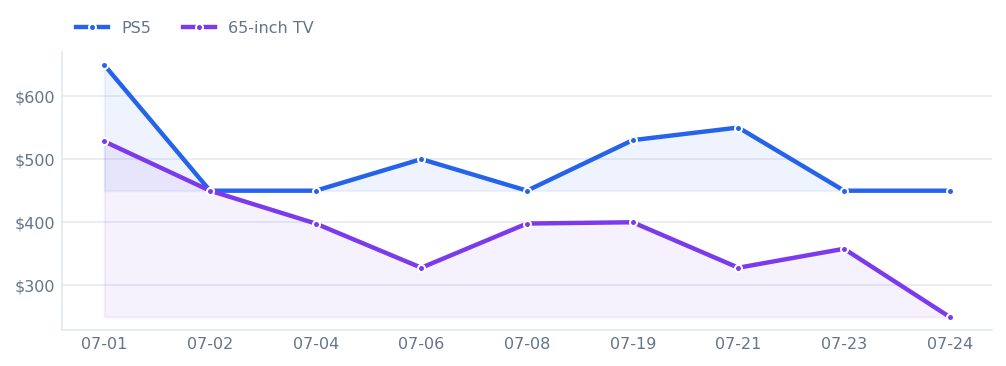
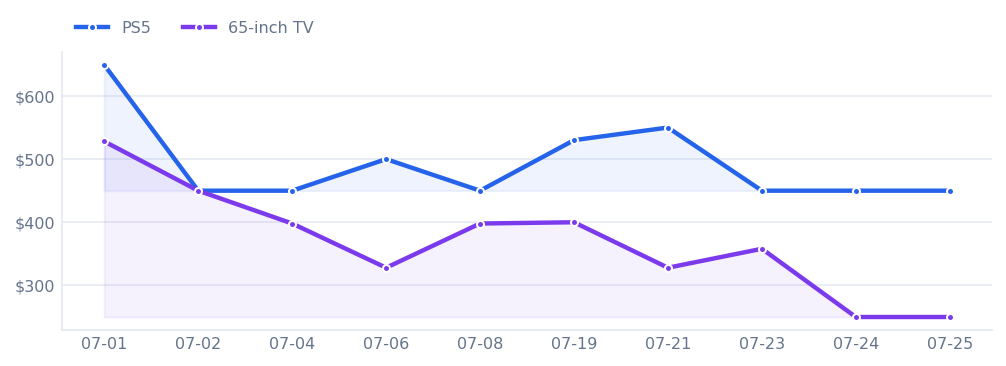
Refresh PS5 and TV deal evidence

diff --git a/index.html b/index.html
@@ -135,14 +135,14 @@
       <div class="metrics">
         <div class="metric"><span class="eyebrow">Data state</span><strong id="hero-data-state">Fresh</strong><small>Derived from source refresh evidence</small></div>
         <div class="metric"><span class="eyebrow">Tracked Rows</span><strong>9</strong><small data-row-metric data-fresh-text="Current retailer evidence rows" data-historical-text="Stored retailer evidence rows" data-unknown-text="Unverified stored rows">Current retailer evidence rows</small></div>
-        <div class="metric"><span class="eyebrow">Warnings</span><strong>2</strong><small>manufacturer-direct reference, member-only price</small></div>
+        <div class="metric"><span class="eyebrow">Warnings</span><strong>3</strong><small>manufacturer-direct reference, member-only price, out of stock</small></div>
       </div>
       <section
         class="panel refresh-block"
         aria-labelledby="refresh-heading"
         data-refresh-root
-        data-success-at="2026-07-24T11:02:57Z"
-        data-attempt-at="2026-07-24T11:03:52.504772Z"
+        data-success-at="2026-07-25T11:03:47Z"
+        data-attempt-at="2026-07-25T11:04:42.940547Z"
         data-cadence-minutes="2880"
         data-grace-minutes="180"
         data-attempt-status="success"
@@ -159,15 +159,15 @@
           <strong id="refresh-status" class="state-badge fresh" aria-live="polite">Fresh</strong>
         </div>
         <dl class="refresh-facts">
-          <div><dt>Last successful data refresh</dt><dd>Jul 24, 2026 6:02 AM CDT</dd></div>
+          <div><dt>Last successful data refresh</dt><dd>Jul 25, 2026 6:03 AM CDT</dd></div>
           <div><dt>Age</dt><dd id="refresh-age">0 minutes</dd></div>
           <div><dt>Cadence</dt><dd>Every 48 hours + 3-hour grace</dd></div>
-          <div><dt>Next due</dt><dd>Jul 26, 2026 6:02 AM CDT</dd></div>
-          <div><dt>Latest attempt</dt><dd>Jul 24, 2026 6:03 AM CDT (success)</dd></div>
+          <div><dt>Next due</dt><dd>Jul 27, 2026 6:03 AM CDT</dd></div>
+          <div><dt>Latest attempt</dt><dd>Jul 25, 2026 6:04 AM CDT (success)</dd></div>
           <div><dt>Evidence represented</dt><dd>9 rows from 9 sources</dd></div>
         </dl>
         <p class="refresh-reason"><strong>State reason:</strong> <span id="refresh-reason">Data is within the 48-hour refresh cadence.</span></p>
-        <p class="secondary-time"><strong>Render / publish:</strong> rendered Jul 24, 2026 6:03 AM CDT; published Not recorded. These do not change the underlying data age.</p>
+        <p class="secondary-time"><strong>Render / publish:</strong> rendered Jul 25, 2026 6:04 AM CDT; published Not recorded. These do not change the underlying data age.</p>
       </section>
       <section class="panel view-switch" aria-label="Dashboard view">
         <div>
@@ -189,7 +189,7 @@
         <p id="historical-warning" class="historical-warning" data-historical-text="Stored prices and products are from the last successful refresh. They are not current recommendations." data-unknown-text="Unverified stored rows - no trustworthy refresh time. Prices and products are not current recommendations." hidden>Stored prices and products are from the last successful refresh. They are not current recommendations.</p>
         <div class="row-controls" data-row-controls aria-label="Comparison controls">
           <label class="control"><span>Target</span><select data-filter-target><option value="">All targets</option><option value="ps5">PS5</option><option value="tv">65-inch TV</option></select></label>
-          <label class="control"><span>Retailer</span><select data-filter-retailer><option value="">All retailers</option><option value="Best Buy">Best Buy</option><option value="Costco">Costco</option><option value="Home Depot">Home Depot</option><option value="PlayStation Direct">PlayStation Direct</option><option value="Target">Target</option><option value="Walmart">Walmart</option></select></label>
+          <label class="control"><span>Retailer</span><select data-filter-retailer><option value="">All retailers</option><option value="Best Buy">Best Buy</option><option value="Costco">Costco</option><option value="GameStop">GameStop</option><option value="PlayStation Direct">PlayStation Direct</option><option value="Target">Target</option><option value="Walmart">Walmart</option></select></label>
           <label class="control"><span>Status</span><select data-filter-status><option value="">All statuses</option><option value="ready">Ready</option><option value="caution">Caution</option><option value="blocked">Blocked</option></select></label>
           <label class="control"><span>Price order</span><select data-sort-direction><option value="asc">Low to high</option><option value="desc">High to low</option></select></label>
         </div>
@@ -213,8 +213,8 @@
                   <dl class="row-evidence">
                     <div><dt>Evidence</dt><dd>big-box public price. Current-run Target product page displayed the PS5 Disc Console 1TB - Fortnite Flowering Chaos Bundle at $449.99 (MSRP $549.99), In Stock, with Add to cart.</dd></div>
                     <div><dt>Condition</dt><dd>new</dd></div>
-                    <div><dt>Pickup / delivery</dt><dd>Online purchase path is visible; confirm selected Houston store, delivery timing, tax, and final cart total before buying.</dd></div>
-                    <div><dt>Acquired</dt><dd>Jul 24, 2026 6:02 AM CDT</dd></div>
+                    <div><dt>Pickup / delivery</dt><dd>Target showed a live online purchase path; confirm selected Houston pickup, delivery timing, tax, and final cart total before buying.</dd></div>
+                    <div><dt>Acquired</dt><dd>Jul 25, 2026 6:03 AM CDT</dd></div>
                     <div><dt>Source</dt><dd><a href="https://www.target.com/p/-/A-94967680">target.com</a></dd></div>
                   </dl>
                 </details>
@@ -224,9 +224,9 @@
           <tr data-deal-row="ps5-walmart-playstation-5-digital-console-slim-825gb" data-target="ps5" data-retailer="Walmart" data-status="ready" data-price="599.0">
             <td data-label="Target">PS5</td>
             <td data-label="Retailer">Walmart</td>
-            <td data-label="Product"><a href="https://www.walmart.com/browse/video-games/playstation-5-ps5-consoles/2636_6111926_2762884">PlayStation 5 Digital Console Slim - 825GB</a></td>
+            <td data-label="Product"><a href="https://www.walmart.com/ip/PlayStation-5-Digital-Console-Slim/17852302051">PlayStation 5 Digital Console Slim - 825GB</a></td>
             <td data-label="Price">$599</td>
-            <td data-label="Stock">Low stock; Add control displayed</td>
+            <td data-label="Stock">New; low stock; Add to cart shown</td>
             <td data-label="Warning / action">
               <div class="row-action-content">
                 <span class="row-status ready">Ready</span>
@@ -234,11 +234,11 @@
                 <details class="row-details">
                   <summary>Evidence: Walmart · PlayStation 5 Digital Console Slim - 825GB</summary>
                   <dl class="row-evidence">
-                    <div><dt>Evidence</dt><dd>big-box public price. Current-run Walmart console results listed the PlayStation 5 Digital Console Slim - 825GB at $599.00, low stock, with delivery and pickup availability.</dd></div>
+                    <div><dt>Evidence</dt><dd>big-box public price. Current-run Walmart product page displayed the PlayStation 5 Digital Console Slim - 825GB at $599.00, new, low stock, with Add to cart; it was sold and shipped by Walmart.com.</dd></div>
                     <div><dt>Condition</dt><dd>new</dd></div>
-                    <div><dt>Pickup / delivery</dt><dd>Walmart showed free shipping arriving tomorrow and free pickup as soon as tomorrow; confirm the Houston store before buying.</dd></div>
-                    <div><dt>Acquired</dt><dd>Jul 24, 2026 6:02 AM CDT</dd></div>
-                    <div><dt>Source</dt><dd><a href="https://www.walmart.com/browse/video-games/playstation-5-ps5-consoles/2636_6111926_2762884">walmart.com</a></dd></div>
+                    <div><dt>Pickup / delivery</dt><dd>Walmart.com showed free shipping, pickup, and delivery controls; confirm the Houston store and timing before buying.</dd></div>
+                    <div><dt>Acquired</dt><dd>Jul 25, 2026 6:03 AM CDT</dd></div>
+                    <div><dt>Source</dt><dd><a href="https://www.walmart.com/ip/PlayStation-5-Digital-Console-Slim/17852302051">walmart.com</a></dd></div>
                   </dl>
                 </details>
               </div>
@@ -247,7 +247,7 @@
           <tr data-deal-row="ps5-best-buy-1000049888" data-target="ps5" data-retailer="Best Buy" data-status="ready" data-price="649.99">
             <td data-label="Target">PS5</td>
             <td data-label="Retailer">Best Buy</td>
-            <td data-label="Product"><a href="https://www.bestbuy.com/product/playstation-5-slim-console-1tb-playstation-5/JXHQ37TYLC">PlayStation 5 Slim Console - 1TB</a></td>
+            <td data-label="Product"><a href="https://www.bestbuy.com/product/playstation-5-slim-console-1tb/JXHQ37TYLC">PlayStation 5 Slim Console - 1TB</a></td>
             <td data-label="Price">$649.99</td>
             <td data-label="Stock">Add to cart; pickup and shipping shown</td>
             <td data-label="Warning / action">
@@ -257,11 +257,11 @@
                 <details class="row-details">
                   <summary>Evidence: Best Buy · PlayStation 5 Slim Console - 1TB</summary>
                   <dl class="row-evidence">
-                    <div><dt>Evidence</dt><dd>big-box public price. Current-run Best Buy product page displayed the PlayStation 5 Slim Console - 1TB, model 1000049888, at $649.99 with Add to cart, pickup, and shipping shown.</dd></div>
+                    <div><dt>Evidence</dt><dd>big-box public price. Current-run Best Buy product page displayed the PlayStation 5 Slim Console - 1TB, model 1000049888, at $649.99 with Add to cart and pickup/shipping availability.</dd></div>
                     <div><dt>Condition</dt><dd>new</dd></div>
-                    <div><dt>Pickup / delivery</dt><dd>Best Buy showed pickup readiness and shipping; confirm the selected Houston store and delivery timing before buying.</dd></div>
-                    <div><dt>Acquired</dt><dd>Jul 24, 2026 6:02 AM CDT</dd></div>
-                    <div><dt>Source</dt><dd><a href="https://www.bestbuy.com/product/playstation-5-slim-console-1tb-playstation-5/JXHQ37TYLC">bestbuy.com</a></dd></div>
+                    <div><dt>Pickup / delivery</dt><dd>Best Buy showed pickup and shipping controls; confirm the selected Houston store and delivery timing before buying.</dd></div>
+                    <div><dt>Acquired</dt><dd>Jul 25, 2026 6:03 AM CDT</dd></div>
+                    <div><dt>Source</dt><dd><a href="https://www.bestbuy.com/product/playstation-5-slim-console-1tb/JXHQ37TYLC">bestbuy.com</a></dd></div>
                   </dl>
                 </details>
               </div>
@@ -283,19 +283,42 @@
                     <div><dt>Evidence</dt><dd>manufacturer reference. Current-run PlayStation Direct catalog displayed the PlayStation 5 Console - 1 TB at $649.00 and the Digital Edition at $599.00.</dd></div>
                     <div><dt>Condition</dt><dd>new</dd></div>
                     <div><dt>Pickup / delivery</dt><dd>Manufacturer-direct online purchase path; no Houston pickup path was shown.</dd></div>
-                    <div><dt>Acquired</dt><dd>Jul 24, 2026 6:02 AM CDT</dd></div>
+                    <div><dt>Acquired</dt><dd>Jul 25, 2026 6:03 AM CDT</dd></div>
                     <div><dt>Source</dt><dd><a href="https://direct.playstation.com/en-us/hardware/ps5">direct.playstation.com</a></dd></div>
                   </dl>
                 </details>
               </div>
             </td>
           </tr>
-          <tr data-deal-row="tv-costco-qd6-series" data-target="tv" data-retailer="Costco" data-status="caution" data-price="249.97">
+          <tr data-deal-row="ps5-gamestop-playstation-5-console" data-target="ps5" data-retailer="GameStop" data-status="blocked" data-price="749.99">
+            <td data-label="Target">PS5</td>
+            <td data-label="Retailer">GameStop</td>
+            <td data-label="Product"><a href="https://www.gamestop.com/consoles-hardware/playstation-5/consoles/products/sony-playstation-5-console/11108140.html">Sony PlayStation 5 Console</a></td>
+            <td data-label="Price">$749.99</td>
+            <td data-label="Stock">Currently unavailable for the selected edition</td>
+            <td data-label="Warning / action">
+              <div class="row-action-content">
+                <span class="row-status blocked">Blocked</span>
+                <div class="chips"><span class="chip warn">out of stock</span></div>
+                <details class="row-details">
+                  <summary>Evidence: GameStop · Sony PlayStation 5 Console</summary>
+                  <dl class="row-evidence">
+                    <div><dt>Evidence</dt><dd>out of stock. Current-run GameStop product page listed the new Sony PlayStation 5 Console at $749.99, but the selected edition was marked Currently Unavailable.</dd></div>
+                    <div><dt>Condition</dt><dd>new</dd></div>
+                    <div><dt>Pickup / delivery</dt><dd>GameStop displayed store pickup, same-day delivery, and ship-to-home options but marked the selected edition currently unavailable; confirm a Houston store before buying.</dd></div>
+                    <div><dt>Acquired</dt><dd>Jul 25, 2026 6:03 AM CDT</dd></div>
+                    <div><dt>Source</dt><dd><a href="https://www.gamestop.com/consoles-hardware/playstation-5/consoles/products/sony-playstation-5-console/11108140.html">gamestop.com</a></dd></div>
+                  </dl>
+                </details>
+              </div>
+            </td>
+          </tr>
+          <tr data-deal-row="tv-costco-65qd65nf" data-target="tv" data-retailer="Costco" data-status="caution" data-price="249.97">
             <td data-label="Target">TV</td>
             <td data-label="Retailer">Costco</td>
             <td data-label="Product"><a href="https://www.costco.com/CompareProductsDisplay?partNumbers=9465065">Hisense 65-inch Class QD6 Series 4K UHD QLED LCD TV</a></td>
             <td data-label="Price">$249.97</td>
-            <td data-label="Stock">Online Only; purchase controls shown</td>
+            <td data-label="Stock">Online Only; Costco Direct listing displayed</td>
             <td data-label="Warning / action">
               <div class="row-action-content">
                 <span class="row-status caution">Caution</span>
@@ -303,10 +326,10 @@
                 <details class="row-details">
                   <summary>Evidence: Costco · Hisense 65-inch Class QD6 Series 4K UHD QLED LCD TV</summary>
                   <dl class="row-evidence">
-                    <div><dt>Evidence</dt><dd>member only. Current-run Costco comparison page displayed the online-only Hisense 65-inch QD6 Series 4K UHD QLED LCD TV at $249.97, including a 3-year warranty.</dd></div>
+                    <div><dt>Evidence</dt><dd>member only. Current-run Costco comparison page displayed the online-only Hisense 65-inch QD6 Series 4K UHD QLED LCD TV, model 65QD65NF, at $249.97 with a 3-year warranty.</dd></div>
                     <div><dt>Condition</dt><dd>new</dd></div>
                     <div><dt>Pickup / delivery</dt><dd>Costco Direct online price; membership and Houston-area delivery details must be confirmed before buying.</dd></div>
-                    <div><dt>Acquired</dt><dd>Jul 24, 2026 6:02 AM CDT</dd></div>
+                    <div><dt>Acquired</dt><dd>Jul 25, 2026 6:03 AM CDT</dd></div>
                     <div><dt>Source</dt><dd><a href="https://www.costco.com/CompareProductsDisplay?partNumbers=9465065">costco.com</a></dd></div>
                   </dl>
                 </details>
@@ -316,9 +339,9 @@
           <tr data-deal-row="tv-walmart-65q51k" data-target="tv" data-retailer="Walmart" data-status="ready" data-price="358.0">
             <td data-label="Target">TV</td>
             <td data-label="Retailer">Walmart</td>
-            <td data-label="Product"><a href="https://www.walmart.com/ip/14513322750">TCL 65-inch Q Series QLED 4K UHD HDR Smart Google TV</a></td>
+            <td data-label="Product"><a href="https://www.walmart.com/ip/TCL-Google-TV-65Q51K/14513322750">TCL 65-inch Q Series QLED 4K UHD HDR Smart Google TV</a></td>
             <td data-label="Price">$358</td>
-            <td data-label="Stock">Add to cart shown</td>
+            <td data-label="Stock">Add to cart; low stock</td>
             <td data-label="Warning / action">
               <div class="row-action-content">
                 <span class="row-status ready">Ready</span>
@@ -326,11 +349,11 @@
                 <details class="row-details">
                   <summary>Evidence: Walmart · TCL 65-inch Q Series QLED 4K UHD HDR Smart Google TV</summary>
                   <dl class="row-evidence">
-                    <div><dt>Evidence</dt><dd>big-box public price. Current-run Walmart product page displayed the TCL 65-inch Q Series QLED 4K UHD HDR Smart Google TV, model 65Q51K, at $358.00 with Add to cart and free shipping.</dd></div>
+                    <div><dt>Evidence</dt><dd>big-box public price. Current-run Walmart product page displayed the TCL 65-inch Q Series QLED 4K UHD HDR Smart Google TV, model 65Q51K, at $358.00 with Add to cart and free shipping; the item was sold and shipped by Walmart.com.</dd></div>
                     <div><dt>Condition</dt><dd>new</dd></div>
-                    <div><dt>Pickup / delivery</dt><dd>Free shipping arriving tomorrow and nearby pickup check were shown; confirm selected Houston store and timing before buying.</dd></div>
-                    <div><dt>Acquired</dt><dd>Jul 24, 2026 6:02 AM CDT</dd></div>
-                    <div><dt>Source</dt><dd><a href="https://www.walmart.com/ip/14513322750">walmart.com</a></dd></div>
+                    <div><dt>Pickup / delivery</dt><dd>Walmart.com showed free shipping and nearby pickup controls; confirm the Houston store and timing before buying.</dd></div>
+                    <div><dt>Acquired</dt><dd>Jul 25, 2026 6:03 AM CDT</dd></div>
+                    <div><dt>Source</dt><dd><a href="https://www.walmart.com/ip/TCL-Google-TV-65Q51K/14513322750">walmart.com</a></dd></div>
                   </dl>
                 </details>
               </div>
@@ -339,7 +362,7 @@
           <tr data-deal-row="tv-best-buy-65q651g" data-target="tv" data-retailer="Best Buy" data-status="ready" data-price="399.99">
             <td data-label="Target">TV</td>
             <td data-label="Retailer">Best Buy</td>
-            <td data-label="Product"><a href="https://www.bestbuy.com/product/tcl-65-class-q6-series-4k-uhd-hdr-qled-smart-google-tv-2024/6579449?skuId=6579449">TCL 65-inch Class Q6-Series 4K UHD QLED Smart Google TV (2024)</a></td>
+            <td data-label="Product"><a href="https://www.bestbuy.com/product/tcl-65-class-q6-series-4k-uhd-hdr-qled-smart-google-tv-2024/J36QYTWHHC">TCL 65-inch Class Q6-Series 4K UHD QLED Smart Google TV (2024)</a></td>
             <td data-label="Price">$399.99</td>
             <td data-label="Stock">Add to cart; pickup and delivery shown</td>
             <td data-label="Warning / action">
@@ -349,11 +372,11 @@
                 <details class="row-details">
                   <summary>Evidence: Best Buy · TCL 65-inch Class Q6-Series 4K UHD QLED Smart Google TV (2024)</summary>
                   <dl class="row-evidence">
-                    <div><dt>Evidence</dt><dd>big-box public price. Current-run Best Buy product page displayed the TCL 65-inch Q6-Series 4K UHD QLED Smart Google TV (2024), model 65Q651G, at $399.99 with Add to cart.</dd></div>
+                    <div><dt>Evidence</dt><dd>big-box public price. Current-run Best Buy product page displayed the TCL 65-inch Q6-Series 4K UHD QLED Smart Google TV, model 65Q651G, at $399.99 with Add to cart and pickup/delivery availability.</dd></div>
                     <div><dt>Condition</dt><dd>new</dd></div>
                     <div><dt>Pickup / delivery</dt><dd>Best Buy showed pickup and delivery controls; confirm the selected Houston store and timing before buying.</dd></div>
-                    <div><dt>Acquired</dt><dd>Jul 24, 2026 6:02 AM CDT</dd></div>
-                    <div><dt>Source</dt><dd><a href="https://www.bestbuy.com/product/tcl-65-class-q6-series-4k-uhd-hdr-qled-smart-google-tv-2024/6579449?skuId=6579449">bestbuy.com</a></dd></div>
+                    <div><dt>Acquired</dt><dd>Jul 25, 2026 6:03 AM CDT</dd></div>
+                    <div><dt>Source</dt><dd><a href="https://www.bestbuy.com/product/tcl-65-class-q6-series-4k-uhd-hdr-qled-smart-google-tv-2024/J36QYTWHHC">bestbuy.com</a></dd></div>
                   </dl>
                 </details>
               </div>
@@ -372,34 +395,11 @@
                 <details class="row-details">
                   <summary>Evidence: Target · TCL 65-inch Class Q6-Series 4K UHD HDR QLED Smart Google TV</summary>
                   <dl class="row-evidence">
-                    <div><dt>Evidence</dt><dd>big-box public price. Current-run Target product page displayed the TCL 65-inch Q6-Series QLED Smart Google TV, model 65Q651G, at $399.99 (regular $419.99), In Stock, with Add to cart.</dd></div>
+                    <div><dt>Evidence</dt><dd>big-box public price. Current-run Target product page displayed the TCL 65-inch Q6-Series 4K UHD HDR QLED Smart Google TV, model 65Q651G, at $399.99, In Stock, with Add to cart.</dd></div>
                     <div><dt>Condition</dt><dd>new</dd></div>
-                    <div><dt>Pickup / delivery</dt><dd>Online purchase path is visible; confirm selected Houston pickup, delivery timing, tax, and final cart total before buying.</dd></div>
-                    <div><dt>Acquired</dt><dd>Jul 24, 2026 6:02 AM CDT</dd></div>
+                    <div><dt>Pickup / delivery</dt><dd>Target showed a live online purchase path; confirm selected Houston pickup, delivery timing, tax, and final cart total before buying.</dd></div>
+                    <div><dt>Acquired</dt><dd>Jul 25, 2026 6:03 AM CDT</dd></div>
                     <div><dt>Source</dt><dd><a href="https://www.target.com/p/-/A-90381693">target.com</a></dd></div>
-                  </dl>
-                </details>
-              </div>
-            </td>
-          </tr>
-          <tr data-deal-row="tv-home-depot-un65m70hafxza" data-target="tv" data-retailer="Home Depot" data-status="ready" data-price="477.99">
-            <td data-label="Target">TV</td>
-            <td data-label="Retailer">Home Depot</td>
-            <td data-label="Product"><a href="https://www.homedepot.com/b/Smart-Home-Smart-Devices-Smart-Electronics-Smart-TVs/65-in/N-5yc1vZ2fkph7mZ1z25e2i">Samsung 65-inch Class M70H Series Mini LED 4K UHD Smart Tizen TV</a></td>
-            <td data-label="Price">$477.99</td>
-            <td data-label="Stock">Add to Cart shown; store not selected</td>
-            <td data-label="Warning / action">
-              <div class="row-action-content">
-                <span class="row-status ready">Ready</span>
-                <div class="chips"><span class="chip good" data-fresh-treatment data-fresh-text="clean buy path" data-historical-text="historical evidence" data-unknown-text="unverified evidence">clean buy path</span></div>
-                <details class="row-details">
-                  <summary>Evidence: Home Depot · Samsung 65-inch Class M70H Series Mini LED 4K UHD Smart Tizen TV</summary>
-                  <dl class="row-evidence">
-                    <div><dt>Evidence</dt><dd>big-box public price. Current-run Home Depot 65-inch smart-TV results displayed the Samsung M70H Series Mini LED 4K UHD Smart Tizen TV, model UN65M70HAFXZA, at $477.99 with Add to Cart.</dd></div>
-                    <div><dt>Condition</dt><dd>new</dd></div>
-                    <div><dt>Pickup / delivery</dt><dd>Home Depot category page showed Add to Cart; confirm Houston-store pickup or delivery, timing, and seller identity before buying.</dd></div>
-                    <div><dt>Acquired</dt><dd>Jul 24, 2026 6:02 AM CDT</dd></div>
-                    <div><dt>Source</dt><dd><a href="https://www.homedepot.com/b/Smart-Home-Smart-Devices-Smart-Electronics-Smart-TVs/65-in/N-5yc1vZ2fkph7mZ1z25e2i">homedepot.com</a></dd></div>
                   </dl>
                 </details>
               </div>
@@ -422,7 +422,7 @@
           <div class="chips"><span class="chip good" data-fresh-treatment data-fresh-text="clean buy path" data-historical-text="historical evidence" data-unknown-text="unverified evidence">clean buy path</span></div>
           <dl class="fact-list">
             <div><dt>Availability</dt><dd>In Stock; Add to cart shown</dd></div>
-            <div><dt>Pickup / delivery</dt><dd>Online purchase path is visible; confirm selected Houston store, delivery timing, tax, and final cart total before buying.</dd></div>
+            <div><dt>Pickup / delivery</dt><dd>Target showed a live online purchase path; confirm selected Houston pickup, delivery timing, tax, and final cart total before buying.</dd></div>
             <div><dt>Evidence</dt><dd>big-box public price</dd></div>
           </dl>
         </article>
@@ -432,7 +432,7 @@
           <p><a href="https://www.costco.com/CompareProductsDisplay?partNumbers=9465065">Hisense 65-inch Class QD6 Series 4K UHD QLED LCD TV</a></p>
           <div class="chips"><span class="chip warn">member-only price</span></div>
           <dl class="fact-list">
-            <div><dt>Availability</dt><dd>Online Only; purchase controls shown</dd></div>
+            <div><dt>Availability</dt><dd>Online Only; Costco Direct listing displayed</dd></div>
             <div><dt>Pickup / delivery</dt><dd>Costco Direct online price; membership and Houston-area delivery details must be confirmed before buying.</dd></div>
             <div><dt>Evidence</dt><dd>member only</dd></div>
           </dl>
@@ -462,7 +462,9 @@
 <tr><td data-label="Date">2026-07-21</td><td data-label="Target">ps5</td><td data-label="Retailer">GameStop</td><td data-label="Product">Sony PlayStation 5 Console</td><td data-label="Price">$549.99</td></tr>
 <tr><td data-label="Date">2026-07-21</td><td data-label="Target">tv</td><td data-label="Retailer">Sam&#x27;s Club</td><td data-label="Product">VIZIO 65-inch Class Quantum Series QLED Smart TV</td><td data-label="Price">$328</td></tr>
 <tr><td data-label="Date">2026-07-23</td><td data-label="Target">ps5</td><td data-label="Retailer">Target</td><td data-label="Product">PlayStation 5 Disc Console 1TB - Fortnite Flowering Chaos Bundle</td><td data-label="Price">$449.99</td></tr>
-<tr><td data-label="Date">2026-07-23</td><td data-label="Target">tv</td><td data-label="Retailer">Walmart</td><td data-label="Product">TCL 65-inch Q Series QLED 4K UHD HDR Smart Google TV</td><td data-label="Price">$358</td></tr></tbody>
+<tr><td data-label="Date">2026-07-23</td><td data-label="Target">tv</td><td data-label="Retailer">Walmart</td><td data-label="Product">TCL 65-inch Q Series QLED 4K UHD HDR Smart Google TV</td><td data-label="Price">$358</td></tr>
+<tr><td data-label="Date">2026-07-24</td><td data-label="Target">ps5</td><td data-label="Retailer">Target</td><td data-label="Product">PlayStation 5 Disc Console 1TB - Fortnite Flowering Chaos Bundle</td><td data-label="Price">$449.99</td></tr>
+<tr><td data-label="Date">2026-07-24</td><td data-label="Target">tv</td><td data-label="Retailer">Costco</td><td data-label="Product">Hisense 65-inch Class QD6 Series 4K UHD QLED LCD TV</td><td data-label="Price">$249.97</td></tr></tbody>
             </table>
           </div>
         </details>
@@ -483,30 +485,31 @@
   "age_minutes": 0,
   "archived": false,
   "cadence_minutes": 2880,
-  "data_refreshed_at_central": "Jul 24, 2026 6:02 AM CDT",
-  "data_refreshed_at_utc": "2026-07-24T11:02:57Z",
-  "evaluated_at_utc": "2026-07-24T11:03:52.531038Z",
+  "data_refreshed_at_central": "Jul 25, 2026 6:03 AM CDT",
+  "data_refreshed_at_utc": "2026-07-25T11:03:47Z",
+  "evaluated_at_utc": "2026-07-25T11:04:42.968540Z",
   "grace_minutes": 180,
-  "last_attempt_at_central": "Jul 24, 2026 6:03 AM CDT",
-  "last_attempt_at_utc": "2026-07-24T11:03:52.504772Z",
+  "last_attempt_at_central": "Jul 25, 2026 6:04 AM CDT",
+  "last_attempt_at_utc": "2026-07-25T11:04:42.940547Z",
   "last_attempt_reason": null,
   "last_attempt_status": "success",
-  "next_due_at_central": "Jul 26, 2026 6:02 AM CDT",
-  "next_due_at_utc": "2026-07-26T11:02:57Z",
+  "next_due_at_central": "Jul 27, 2026 6:03 AM CDT",
+  "next_due_at_utc": "2026-07-27T11:03:47Z",
   "published_at_central": "Not recorded",
   "published_at_utc": null,
   "quality_counts": {
-    "big_box_public_price": 7,
+    "big_box_public_price": 6,
     "manufacturer_direct_reference": 1,
-    "member_only": 1
+    "member_only": 1,
+    "out_of_stock": 1
   },
   "reason": "Data is within the 48-hour refresh cadence.",
-  "rendered_at_central": "Jul 24, 2026 6:03 AM CDT",
-  "rendered_at_utc": "2026-07-24T11:03:52.531038Z",
+  "rendered_at_central": "Jul 25, 2026 6:04 AM CDT",
+  "rendered_at_utc": "2026-07-25T11:04:42.968540Z",
   "row_count": 9,
   "source_count": 9,
-  "stale_after_at_central": "Jul 26, 2026 9:02 AM CDT",
-  "stale_after_at_utc": "2026-07-26T14:02:57Z",
+  "stale_after_at_central": "Jul 27, 2026 9:03 AM CDT",
+  "stale_after_at_utc": "2026-07-27T14:03:47Z",
   "state": "Fresh",
   "timezone": "America/Chicago"
 }</script>
